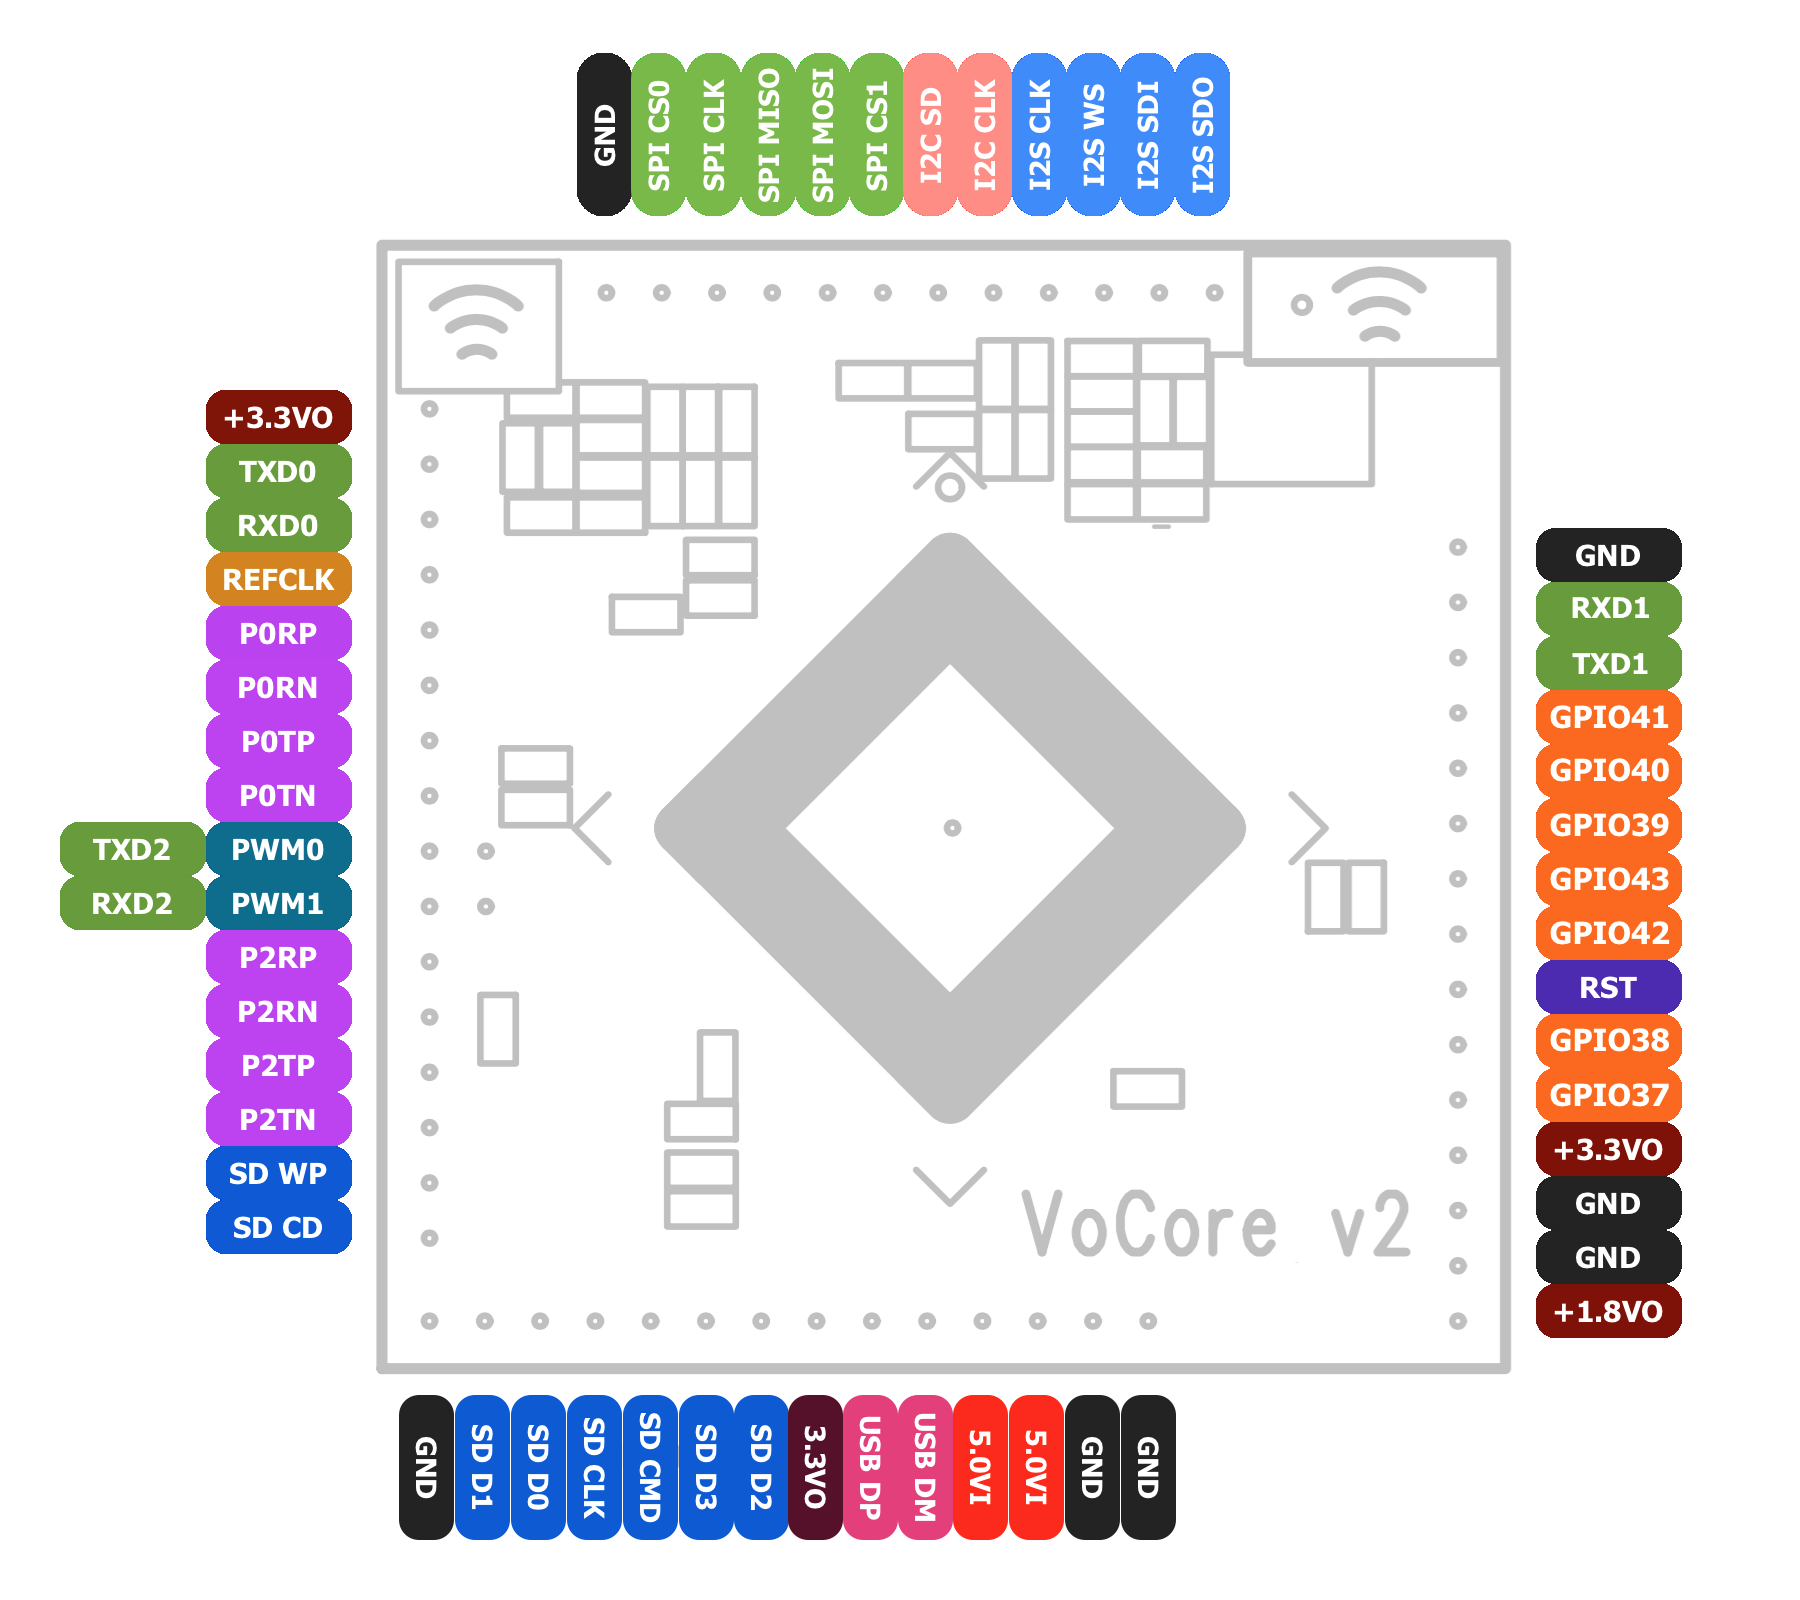
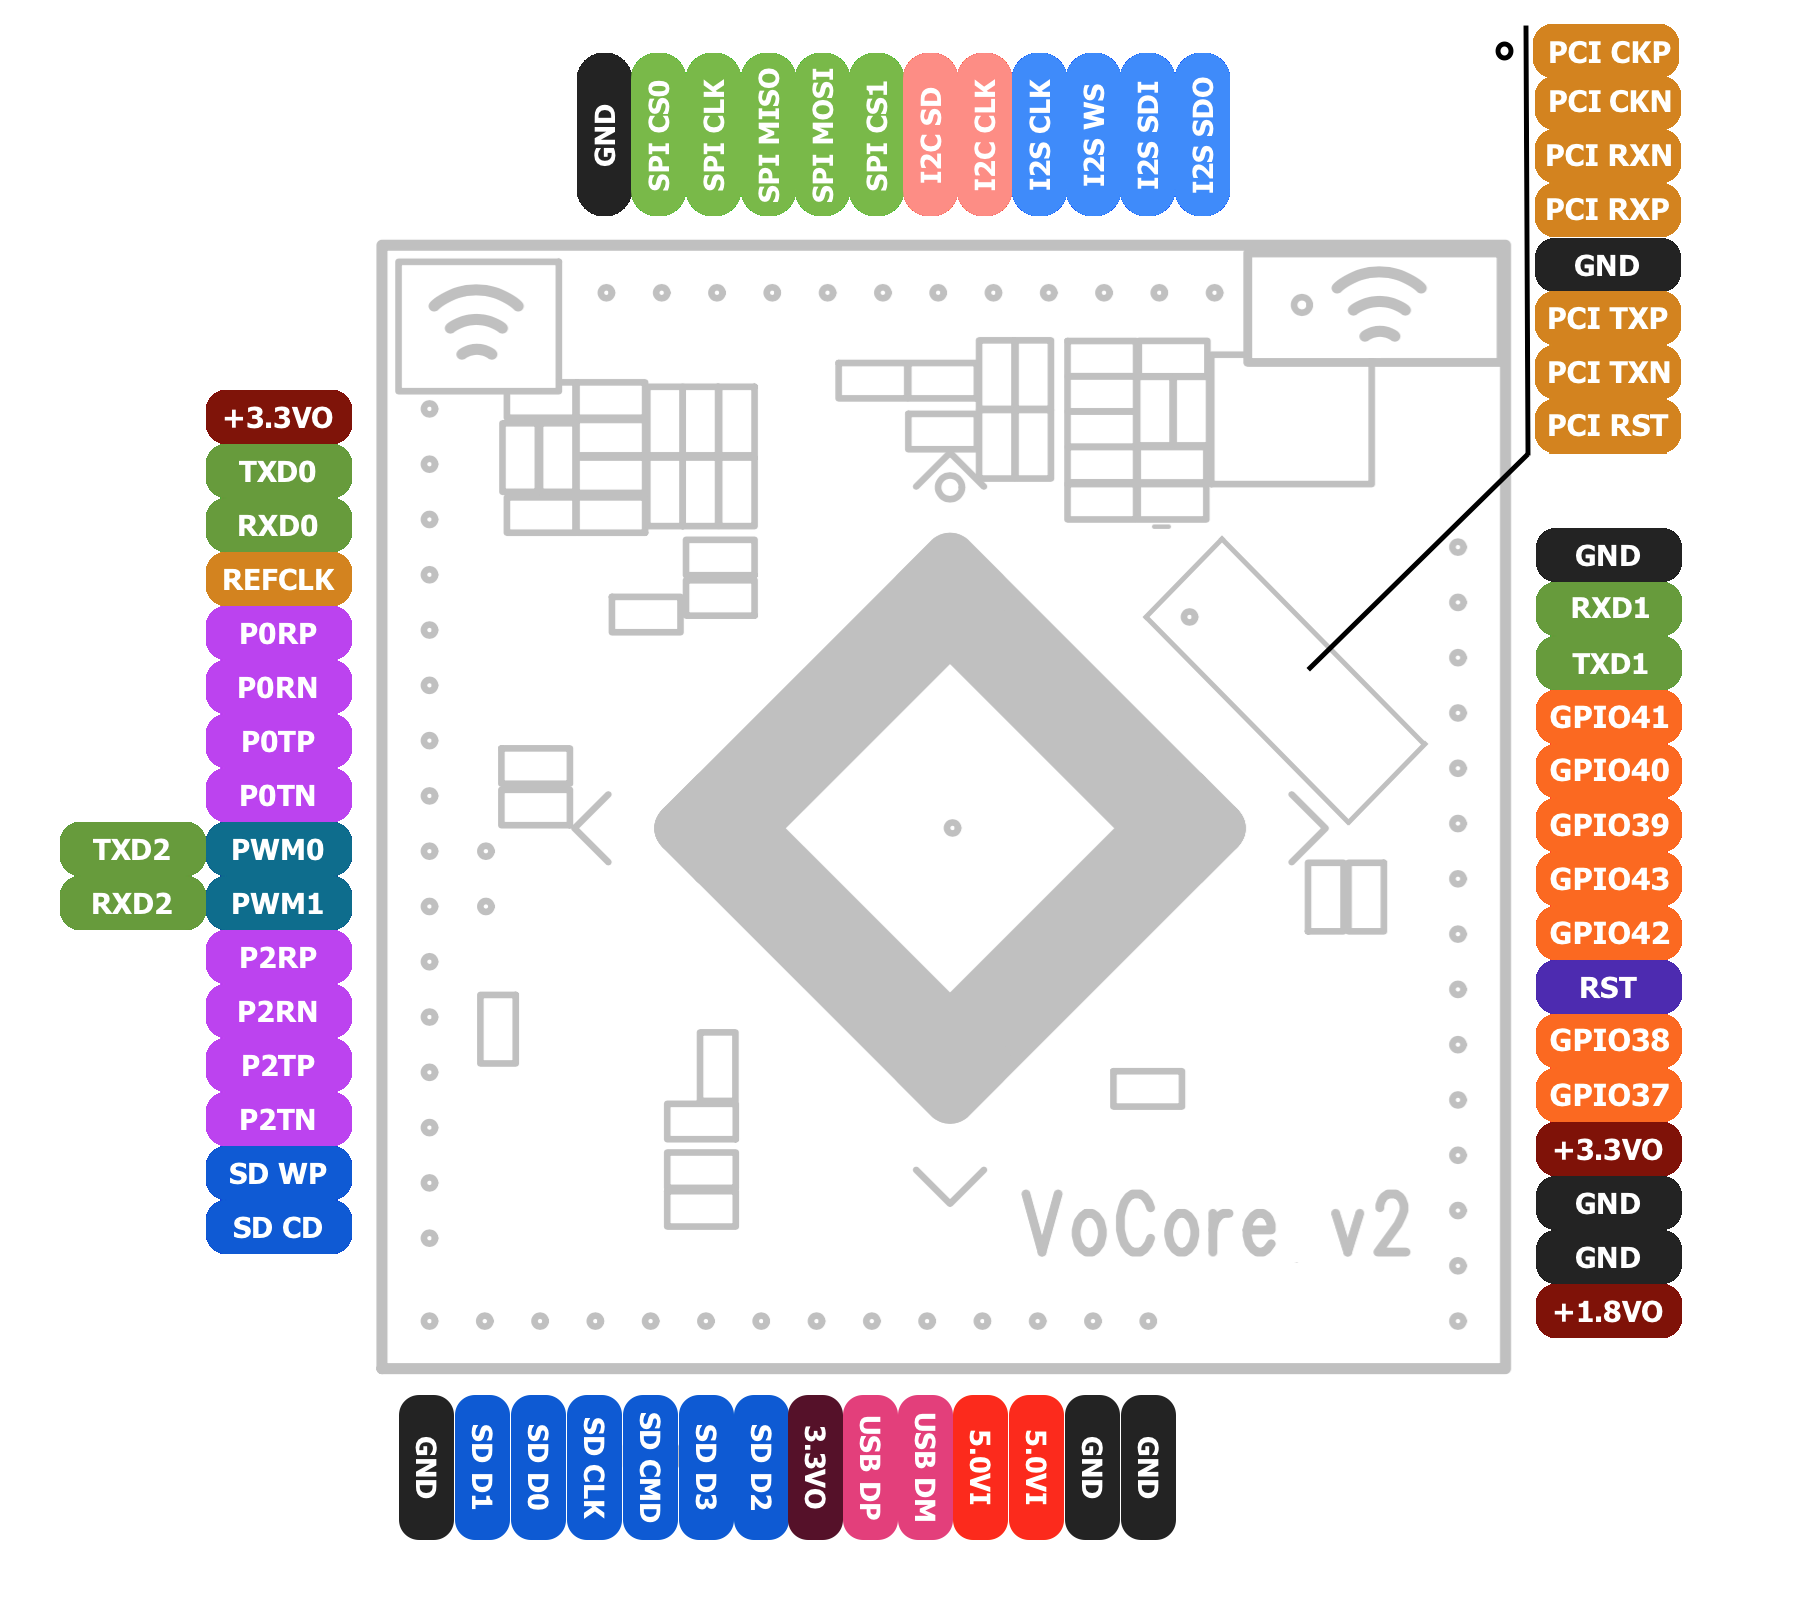
update description for VoCore2.

diff --git a/v2.html b/v2.html
@@ -58,6 +58,106 @@
    <p>VoCore2 is a successor of VoCore, make it more fast, stable, but still same size.</p>
 
    <center><img src="img/v2/v2.pins.png" height="600"></img></center>
+   <center><h4><span class="label label-default">pin id is same as the one on MT76x8 datasheet in source</span></h4></center>
+
+   <table class="table table-bordered table-striped">
+    <thead><tr><th>Left</th><th>Name</th><th>Mux</th><th>Note</th></tr></thead>
+    <tbody>
+     <tr><th class=text-nowrap scope=row>-</th><td>+3.3VO</td><td>+3.3V output</td><td>max output current 100mA</td></tr>
+     <tr><th class=text-nowrap scope=row>30</th><td>TXD0</td><td>GPIO12, UART0 Lite TXD</td><td>3.3V</td></tr>
+     <tr><th class=text-nowrap scope=row>31</th><td>RXD0</td><td>GPIO13, UART0 Lite RXD</td><td>3.3V</td></tr>
+     <tr><th class=text-nowrap scope=row>29</th><td>REFCLK</td><td>GPIO11, reference clock</td><td></td></tr>
+     <tr><th class=text-nowrap scope=row>33</th><td>P0RP</td><td>10/100 PHY Port #0 RXP</td><td></td></tr>
+     <tr><th class=text-nowrap scope=row>34</th><td>P0RN</td><td>10/100 PHY Port #0 RXN</td><td></td></tr>
+     <tr><th class=text-nowrap scope=row>35</th><td>P0TP</td><td>10/100 PHY Port #0 TXP</td><td></td></tr>
+     <tr><th class=text-nowrap scope=row>36</th><td>P0TN</td><td>10/100 PHY Port #0 TXN</td><td></td></tr>
+     <tr><th class=text-nowrap scope=row>43</th><td>TXD2</td><td>10/100 PHY Port #1 TXN, GPIO15, PWM Channel, SPI Slave Clock</td><td></td></tr>
+     <tr><th class=text-nowrap scope=row>44</th><td>RXD2</td><td>10/100 PHY Port #1 TXP, GPIO14, PWM Channel, SPI Slave Chip Select</td><td></td></tr>
+     <tr><th class=text-nowrap scope=row>40</th><td>PWM0</td><td>10/100 PHY Port #1 RXN, GPIO17, UART2 Lite TXD, SPI Slave MOSI</td><td>4.7K pull down to GND</td></tr>
+     <tr><th class=text-nowrap scope=row>42</th><td>PWM1</td><td>10/100 PHY Port #1 RXP, GPIO16, UART2 Lite RXD, SPI Slave MISO</td><td></td></tr>
+     <tr><th class=text-nowrap scope=row>45</th><td>P2RP</td><td>10/100 PHY Port #2 RXP, GPIO18, PWM Channel</td><td></td></tr>
+     <tr><th class=text-nowrap scope=row>46</th><td>P2RN</td><td>10/100 PHY Port #2 RXN, GPIO19, PWM Channel</td><td></td></tr>
+     <tr><th class=text-nowrap scope=row>47</th><td>P2TP</td><td>10/100 PHY Port #2 TXP, GPIO20, PWM Channel</td><td></td></tr>
+     <tr><th class=text-nowrap scope=row>48</th><td>P2TN</td><td>10/100 PHY Port #2 TXN, GPIO21, PWM Channel</td><td></td></tr>
+     <tr><th class=text-nowrap scope=row>49</th><td>SD WP</td><td>GPIO, 10/100 PHY Port #3 RXN, SDXC Write Protect</td><td></td></tr>
+     <tr><th class=text-nowrap scope=row>50</th><td>SD CD</td><td>GPIO, 10/100 PHY Port #3 RXP, SDXC Card Detect</td><td></td></tr>
+    </tbody>
+   </table>
+
+   <table class="table table-bordered table-striped">
+    <thead><tr><th>Top</th><th>Name</th><th>Mux</th><th>Note</th></tr></thead>
+    <tbody>
+     <tr><th class=text-nowrap scope=row>-</th><td>GND</td><td>Groud</td><td></td></tr>
+     <tr><th class=text-nowrap scope=row>28</th><td>SPI CS0</td><td>GPIO10, SPI Master Chip Select 0</td><td>4.7K pull up to 3.3V</td></tr>
+     <tr><th class=text-nowrap scope=row>25</th><td>SPI CLK</td><td>GPIO7, SPI Master Clock</td><td>4.7K pull up to 3.3V</td></tr>
+     <tr><th class=text-nowrap scope=row>26</th><td>SPI MISO</td><td>GPIO9, SPI Master In Slave Out</td><td></td></tr>
+     <tr><th class=text-nowrap scope=row>27</th><td>SPI MOSI</td><td>GPIO8, SPI Master Out Slave In</td><td>4.7K pull down to GND</td></tr>
+     <tr><th class=text-nowrap scope=row>24</th><td>SPI CS1</td><td>GPIO6, SPI Master Chip Select 1</td><td>4.7K pull down to GND</td></tr>
+     <tr><th class=text-nowrap scope=row>21</th><td>I2C SD</td><td>GPIO5, I2C Data</td><td>4.7K pull up to 3.3V</td></tr>
+     <tr><th class=text-nowrap scope=row>20</th><td>I2C CLK</td><td>GPIO4, I2C Clock</td><td>4.7K pull up to 3.3V</td></tr>
+     <tr><th class=text-nowrap scope=row>19</th><td>I2S CLK</td><td>GPIO3, I2S Bit Clock</td><td></td></tr>
+     <tr><th class=text-nowrap scope=row>18</th><td>I2S WS</td><td>GPIO2, I2S L/R Clock</td><td></td></tr>
+     <tr><th class=text-nowrap scope=row>16</th><td>I2S SDI</td><td>GPIO0, I2S Data In</td><td></td></tr>
+     <tr><th class=text-nowrap scope=row>17</th><td>I2S SDO</td><td>GPIO1, I2S Data Out</td><td>4.7K pull down to GND</td></tr>
+    </tbody>
+   </table>
+
+   <table class="table table-bordered table-striped">
+    <thead><tr><th>Right</th><th>Name</th><th>Mux</th><th>Note</th></tr></thead>
+    <tbody>
+     <tr><th class=text-nowrap scope=row>-</th><td>GND</td><td>Ground</td><td></td></tr>
+     <tr><th class=text-nowrap scope=row>148</th><td>RXD1</td><td>GPIO12, UART1 Lite RXD</td><td>3.3V</td></tr>
+     <tr><th class=text-nowrap scope=row>147</th><td>TXD1</td><td>GPIO13, UART1 Lite TXD</td><td>3.3V</td></tr>
+     <tr><th class=text-nowrap scope=row>141</th><td>GPIO41</td><td>GPIO41, JTAG TMS</td><td>JTAG needs 10K pull up, R9 -> R6</td></tr>
+     <tr><th class=text-nowrap scope=row>140</th><td>GPIO40</td><td>GPIO40, JTAG Clock</td><td>JTAG needs 10K pull up, R9 -> R6</td></tr>
+     <tr><th class=text-nowrap scope=row>139</th><td>GPIO39</td><td>GPIO39, JTAG Reset</td><td>JTAG needs 10K pull up, R9 -> R6</td></tr>
+     <tr><th class=text-nowrap scope=row>143</th><td>GPIO43</td><td>GPIO43, JTAG TDO</td><td>JTAG needs 10K pull up, R9 -> R6</td></tr>
+     <tr><th class=text-nowrap scope=row>142</th><td>GPIO42</td><td>GPIO42, JTAG TDI</td><td>JTAG needs 10K pull up, R9 -> R6</td></tr>
+     <tr><th class=text-nowrap scope=row>138</th><td>RST</td><td>Reset, touch GND to reset</td><td></td></tr>
+     <tr><th class=text-nowrap scope=row>137</th><td>GPIO38</td><td>GPIO38</td><td></td></tr>
+     <tr><th class=text-nowrap scope=row>136</th><td>GPIO37</td><td>GPIO37</td><td></td></tr>
+     <tr><th class=text-nowrap scope=row>-</th><td>+3.3VO</td><td>+3.3V output</td><td>max output current 100mA</td></tr>
+     <tr><th class=text-nowrap scope=row>-</th><td>GND</td><td>Ground</td><td></td></tr>
+     <tr><th class=text-nowrap scope=row>-</th><td>GND</td><td>Ground</td><td></td></tr>
+     <tr><th class=text-nowrap scope=row>-</th><td>+1.8VO</td><td>+1.8V output</td><td>max output current 100mA</td></tr>
+    </tbody>
+   </table>
+
+   <table class="table table-bordered table-striped">
+    <thead><tr><th>Bottom</th><th>Name</th><th>Mux</th><th>Note</th></tr></thead>
+    <tbody>
+     <tr><th class=text-nowrap scope=row>-</th><td>GND</td><td>Ground</td><td></td></tr>
+     <tr><th class=text-nowrap scope=row>51</th><td>SD D1</td><td>GPIO, 10/100 PHY Port #3 RXP, SDXC Data Bit1</td><td></td></tr>
+     <tr><th class=text-nowrap scope=row>52</th><td>SD D0</td><td>GPIO, 10/100 PHY Port #3 RXN, SDXC Data Bit0</td><td></td></tr>
+     <tr><th class=text-nowrap scope=row>54</th><td>SD CLK</td><td>GPIO, 10/100 PHY Port #4 RXP, SDXC Clock</td><td></td></tr>
+     <tr><th class=text-nowrap scope=row>55</th><td>SD CMD</td><td>GPIO, 10/100 PHY Port #4 RXN, SDXC Command</td><td></td></tr>
+     <tr><th class=text-nowrap scope=row>56</th><td>SD D3</td><td>GPIO, 10/100 PHY Port #4 TXP, SDXC Data Bit3</td><td></td></tr>
+     <tr><th class=text-nowrap scope=row>57</th><td>SD D2</td><td>GPIO, 10/100 PHY Port #4 TXN, SDXC Data Bit2</td><td></td></tr>
+     <tr><th class=text-nowrap scope=row>-</th><td>+3.3VO</td><td>+3.3V output</td><td>max output current 100mA</td></tr>
+     <tr><th class=text-nowrap scope=row>61</th><td>USB DP</td><td>USB2.0 Data+</td><td></td></tr>
+     <tr><th class=text-nowrap scope=row>62</th><td>USB DM</td><td>USB2.0 Data-</td><td></td></tr>
+     <tr><th class=text-nowrap scope=row>-</th><td>+5.0VI</td><td>+5.0V output</td><td>min input current 500mA</td></tr>
+     <tr><th class=text-nowrap scope=row>-</th><td>+5.0VI</td><td>+5.0V output</td><td>min input current 500mA</td></tr>
+     <tr><th class=text-nowrap scope=row>-</th><td>GND</td><td>Ground</td><td></td></tr>
+     <tr><th class=text-nowrap scope=row>-</th><td>GND</td><td>Ground</td><td></td></tr>
+    </tbody>
+   </table>
+
+
+   <table class="table table-bordered table-striped">
+    <thead><tr><th>Middle</th><th>Name</th><th>Mux</th><th>Note</th></tr></thead>
+    <tbody>
+     <tr><th class=text-nowrap scope=row>133</th><td>PCI CKP</td><td>PCI Express External Reference Clock Output+</td><td></td></tr>
+     <tr><th class=text-nowrap scope=row>132</th><td>PCI CKN</td><td>PCI Express External Reference Clock Output-</td><td></td></tr>
+     <tr><th class=text-nowrap scope=row>130</th><td>PCI RXN</td><td>PCI Express Differential Receiver RX-</td><td></td></tr>
+     <tr><th class=text-nowrap scope=row>129</th><td>PCI RXP</td><td>PCI Express Differential Receiver RX+</td><td></td></tr>
+     <tr><th class=text-nowrap scope=row>-</th><td>GND</td><td>Ground</td><td></td></tr>
+     <tr><th class=text-nowrap scope=row>127</th><td>PCI TXP</td><td>PCI Express Differential Transmit TX+</td><td></td></tr>
+     <tr><th class=text-nowrap scope=row>126</th><td>PCI TXN</td><td>PCI Express Differential Transmit TX-</td><td></td></tr>
+     <tr><th class=text-nowrap scope=row>135</th><td>PCI RST</td><td>PCI Express Device Reset</td><td></td></tr>
+    </tbody>
+   </table>
+
    <center><img src="img/v2/v2.size.png" height="600"></img></center>
 
    <h3>Tutorials</h3>

diff --git a/index.html b/index.html
@@ -112,7 +112,7 @@
   <a name="store"></a>
   <div id="tbStore" class="container store">
     <div class="row">
-      <center><h4><span class="label label-default">Click the icon for documentation and tutorials</span></h4></center>
+      <center><h4><span class="label label-default">Click the icon for source, documentation and tutorials</span></h4></center>
       <div class="col-sm-4">
 	<a href="v2.html" target="_blank">
 	  <img class="img-circle" src="img/pic1.jpg" width="140" height="140">
@@ -305,7 +305,7 @@
   <hr/>
 
   <footer class="container">
-    <center><p class="footer-text"><small><b>VoCore Studio &copy; 2014-2016 &middot; Contact us:  <a href="mailto:support@vocore.io">support@vocore.io</a></b></small></p></center>
+    <center><p class="footer-text"><small><b>VoCore Studio &copy; 2014-2016 &middot; Contact us (reply in 24hours):  <a href="mailto:support@vocore.io">support@vocore.io</a></b></small></p></center>
   </footer>
 
 </body>

diff --git a/v2u.html b/v2u.html
@@ -18,8 +18,9 @@
   </div>
 
   <hr/>
-
   <div class="container">
+    <p><b>IMPORTANT:   </b>Please upgrade your VoCore2 Ultimate firmware to latest version for best performance.</p>
+
    <h3>Parameters</h3>
    <table class="table table-bordered table-striped">
     <thead><tr><th></th><th>Details</th></tr></thead>
@@ -58,6 +59,7 @@
    <p>Super small router but contails microSD, USB2.0, A/D, D/A, Ethernet Port, audio record/play, up to 300Mbps wireless transfer speed, low power consume. It is a perfect portable router.</p>
 
    <center><img src="img/v2/v2.pins.png" height="600"></img></center>
+   <center><h4><span class="label label-default">read more from <a href="v2.html">VoCore2</a> description</span></h4></center>
    <center><img src="img/v2/v2.size.png" height="600"></img></center>
    <center><img src="img/v2u/v2u.pins.png" height="600"></img></center>
 

diff --git a/wiki.html b/wiki.html
@@ -1,0 +1,17 @@
+<!DOCTYPE html>
+<html lang="en">
+<head>
+ <meta charset="utf-8">
+ <meta http-equiv="X-UA-Compatible" content="IE=edge">
+ <meta name="viewport" content="width=device-width, initial-scale=1">
+ <title>VoCore2 | Coin-sized Linux Computer</title>
+ <link rel="stylesheet" href="css/bootstrap.min.css">
+ <link rel="stylesheet" href="css/vocore.min.css">
+ <link rel="icon" href="favicon.ico">
+</head>
+
+<body>
+<h1>Under Constrution</h1>
+<h1>Under Constrution</h1>
+<h1>Under Constrution</h1>
+</body>

diff --git a/css/vocore.min.css b/css/vocore.min.css
@@ -56,6 +56,16 @@ color: #29a95c;
   text-shadow: 0 1px 2px rgba(0,0,0,.6);
 }
 
+.label a {
+  color: white;
+  text-decoration: none;
+}
+
+.label a:hover {
+  color: #f80;
+  text-decoration: none;
+}
+
 .tooltip .tooltip-inner {
     background-color: #5cb85c;
 }
